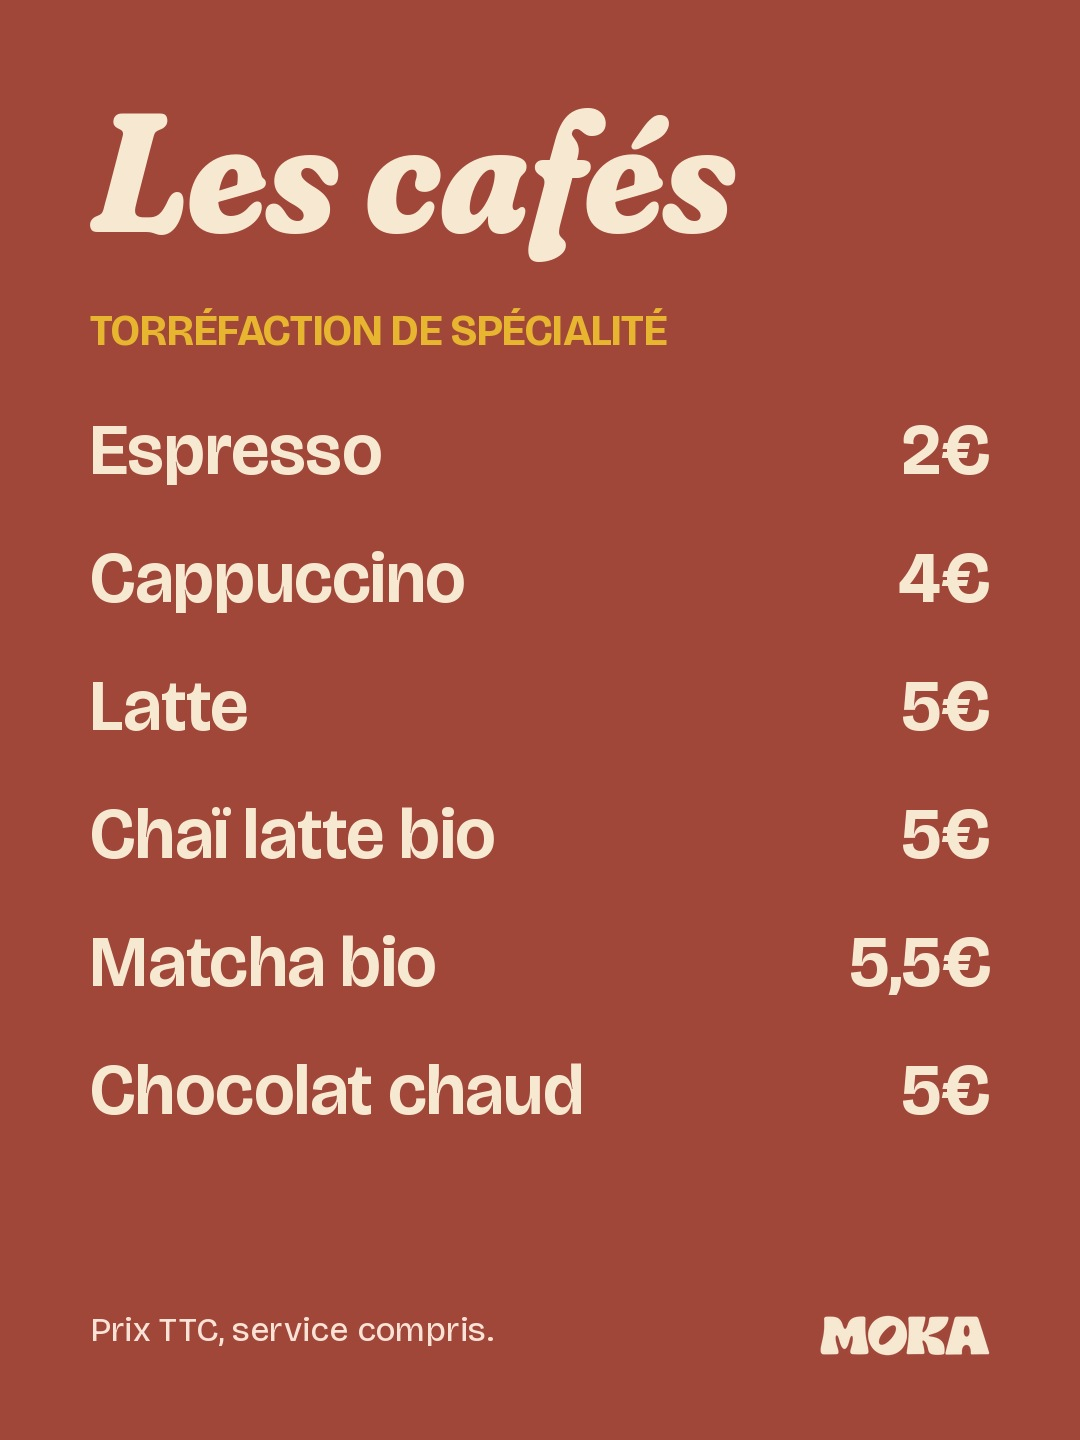
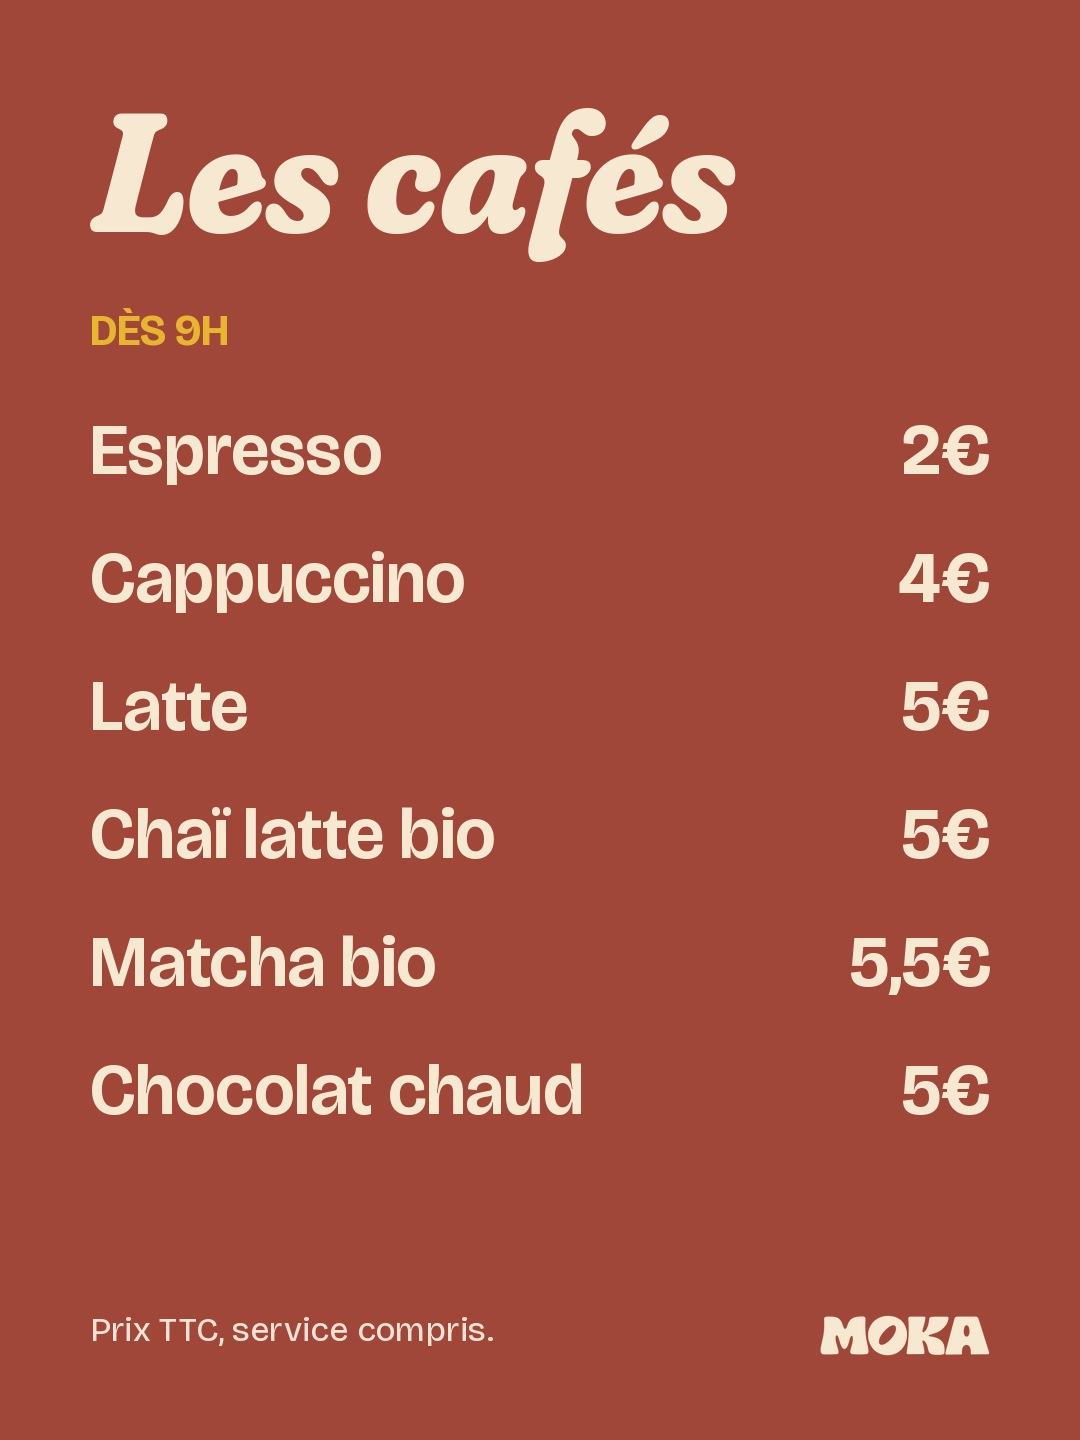
Retrait de « café de spécialité »
Claude-Session: https://claude.ai/code/session_019Bk9xZKYKJ5wJ3PbSAVgiY

Changed region(s): [[0.0611, 0.2188, 0.6111, 0.25]]

diff --git a/social/tools/meteo/meteo.py b/social/tools/meteo/meteo.py
@@ -96,7 +96,7 @@ BANK = {
    dict(k='{tmin}° CE MATIN', t=['Ton bureau', 'au chaud'], i=['Wifi, prises et un bon latte', 'DAY'], p='viennoiseries_2', th='cr', bureau=True),
  ],
  'gris': [
-   dict(k='CIEL GRIS SUR ANNECY', t=['Un latte', 'et ça repart'], i=['Café de spécialité dès 9 h', 'DAY'], p='oeufs_saumon', th='bx'),
+   dict(k='CIEL GRIS SUR ANNECY', t=['Un latte', 'et ça repart'], i=['Café chaud dès 9 h', 'DAY'], p='oeufs_saumon', th='bx'),
    dict(k='JOURNÉE GRISE', t=['Ton bureau', 'au chaud'], i=['Wifi, prises et un bon latte', 'DAY'], p='matcha_viennoiseries', th='cr', bureau=True),
    dict(k='CIEL GRIS SUR ANNECY', t=['Brunch', 'dès 9 h'], i=['Brunch Moka 16 €', 'DAY'], p='egg_muffin', th='cr'),
  ],
